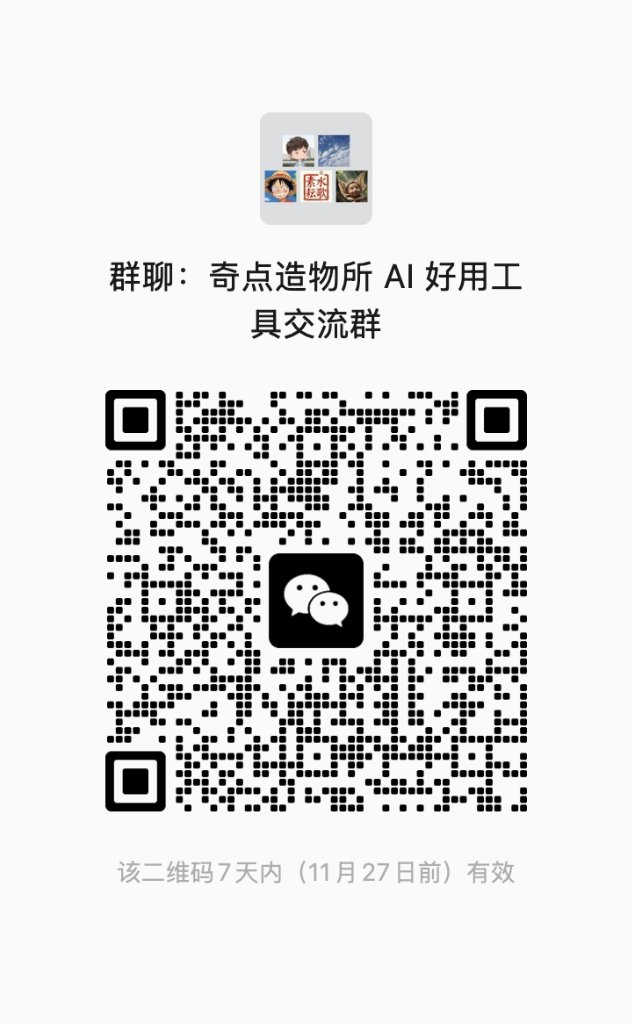
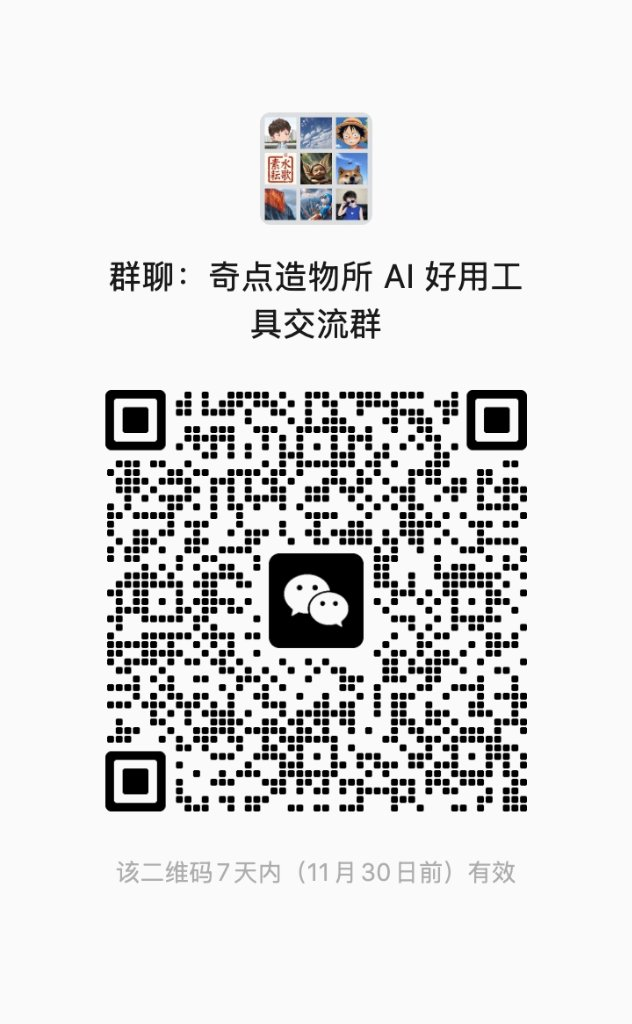
docs: refresh WeChat AI tool group QR code (valid until 11-30)

diff --git a/README.md b/README.md
@@ -130,4 +130,4 @@ cp -R /tmp/gzh-pipeline/wechat-content-analysis "${CODEX_HOME:-$HOME/.codex}/ski
 | 赞赏支持 | 奇点造物所 AI 好用工具交流群 | 主理人微信（技术交流 / 部署协助） |
 | :---: | :---: | :---: |
 | <img src="assets/sponsor.png" width="200" alt="微信赞赏支持" style="border-radius: 8px;" /> | <img src="assets/wechat-group.jpg" width="200" alt="奇点造物所 AI 好用工具交流群" style="border-radius: 8px;" /> | <img src="assets/wechat.png" width="200" alt="主理人微信" style="border-radius: 8px;" /> |
-| **觉得省时，请作者喝杯冰美式** | **扫码入群交流（11-27 前有效，过期加右微信）** | **微信：`lukai391424`（备注 `开源` 或 `部署`）** |
+| **觉得省时，请作者喝杯冰美式** | **扫码入群交流（11-30 前有效，过期加右微信）** | **微信：`lukai391424`（备注 `开源` 或 `部署`）** |
